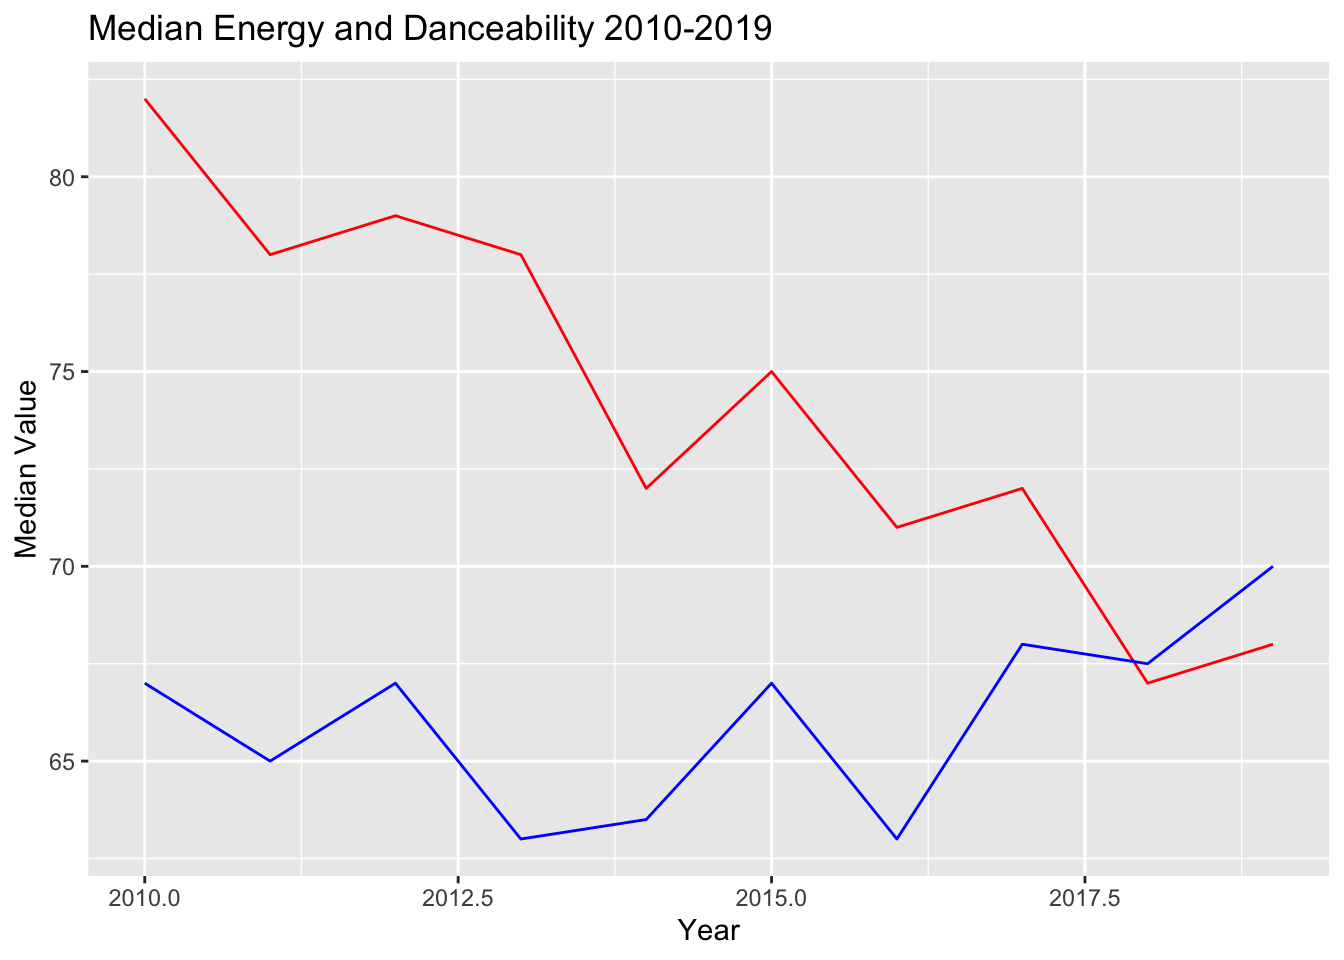
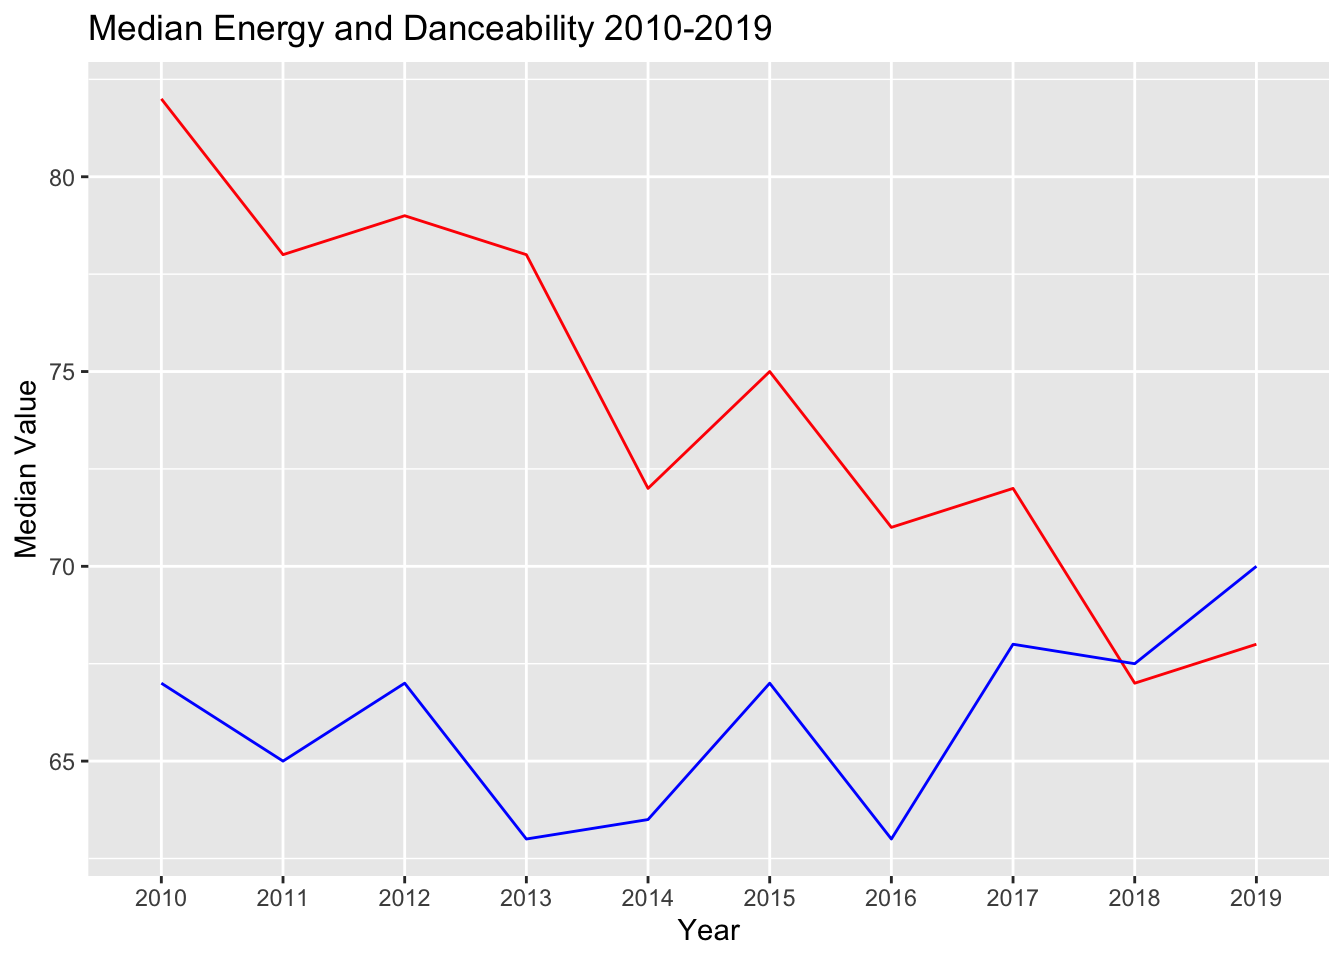
Change in the figure

diff --git a/dplyr-tidyr-tues-HW.html b/dplyr-tidyr-tues-HW.html
@@ -664,12 +664,14 @@ Attaching package: 'dplyr'</code></pre>
 <section id="e1.6" class="level3">
 <h3 class="anchored" data-anchor-id="e1.6">E1.6</h3>
 <div class="cell">
-<div class="sourceCode cell-code" id="cb11"><pre class="sourceCode r code-with-copy"><code class="sourceCode r"><span id="cb11-1"><a href="#cb11-1" aria-hidden="true" tabindex="-1"></a><span class="fu">ggplot</span>(<span class="at">data =</span> year_wise_stats, <span class="fu">aes</span>(<span class="at">x =</span> year)) <span class="sc">+</span></span>
-<span id="cb11-2"><a href="#cb11-2" aria-hidden="true" tabindex="-1"></a>  <span class="fu">geom_line</span>(<span class="fu">aes</span>(<span class="at">y =</span> median_energy, <span class="at">color =</span> <span class="st">"Median Energy"</span>), <span class="at">color =</span> <span class="st">"red"</span>) <span class="sc">+</span></span>
-<span id="cb11-3"><a href="#cb11-3" aria-hidden="true" tabindex="-1"></a>  <span class="fu">geom_line</span>(<span class="fu">aes</span>(<span class="at">y =</span> median_danceability, <span class="at">color =</span> <span class="st">"Median Danceability"</span>), <span class="at">color =</span> <span class="st">"blue"</span>) <span class="sc">+</span></span>
-<span id="cb11-4"><a href="#cb11-4" aria-hidden="true" tabindex="-1"></a>  <span class="fu">labs</span>(<span class="at">title =</span> <span class="st">"Median Energy and Danceability 2010-2019"</span>,</span>
-<span id="cb11-5"><a href="#cb11-5" aria-hidden="true" tabindex="-1"></a>       <span class="at">x =</span> <span class="st">"Year"</span>,</span>
-<span id="cb11-6"><a href="#cb11-6" aria-hidden="true" tabindex="-1"></a>       <span class="at">y =</span> <span class="st">"Median Value"</span>)</span></code><button title="Copy to Clipboard" class="code-copy-button"><i class="bi"></i></button></pre></div>
+<div class="sourceCode cell-code" id="cb11"><pre class="sourceCode r code-with-copy"><code class="sourceCode r"><span id="cb11-1"><a href="#cb11-1" aria-hidden="true" tabindex="-1"></a>year_wise_stats<span class="sc">$</span>year <span class="ot">&lt;-</span> <span class="fu">factor</span>(year_wise_stats<span class="sc">$</span>year)</span>
+<span id="cb11-2"><a href="#cb11-2" aria-hidden="true" tabindex="-1"></a></span>
+<span id="cb11-3"><a href="#cb11-3" aria-hidden="true" tabindex="-1"></a><span class="fu">ggplot</span>(<span class="at">data =</span> year_wise_stats, <span class="fu">aes</span>(<span class="at">x =</span> year, <span class="at">group =</span> <span class="dv">1</span>)) <span class="sc">+</span></span>
+<span id="cb11-4"><a href="#cb11-4" aria-hidden="true" tabindex="-1"></a>  <span class="fu">geom_line</span>(<span class="fu">aes</span>(<span class="at">y =</span> median_energy, <span class="at">color =</span> <span class="st">"Median Energy"</span>), <span class="at">color =</span> <span class="st">"red"</span>) <span class="sc">+</span></span>
+<span id="cb11-5"><a href="#cb11-5" aria-hidden="true" tabindex="-1"></a>  <span class="fu">geom_line</span>(<span class="fu">aes</span>(<span class="at">y =</span> median_danceability, <span class="at">color =</span> <span class="st">"Median Danceability"</span>), <span class="at">color =</span> <span class="st">"blue"</span>) <span class="sc">+</span></span>
+<span id="cb11-6"><a href="#cb11-6" aria-hidden="true" tabindex="-1"></a>  <span class="fu">labs</span>(<span class="at">title =</span> <span class="st">"Median Energy and Danceability 2010-2019"</span>,</span>
+<span id="cb11-7"><a href="#cb11-7" aria-hidden="true" tabindex="-1"></a>       <span class="at">x =</span> <span class="st">"Year"</span>,</span>
+<span id="cb11-8"><a href="#cb11-8" aria-hidden="true" tabindex="-1"></a>       <span class="at">y =</span> <span class="st">"Median Value"</span>)</span></code><button title="Copy to Clipboard" class="code-copy-button"><i class="bi"></i></button></pre></div>
 <div class="cell-output-display">
 <p><img src="dplyr-tidyr-tues-HW_files/figure-html/unnamed-chunk-7-1.png" class="img-fluid" width="672"></p>
 </div>
